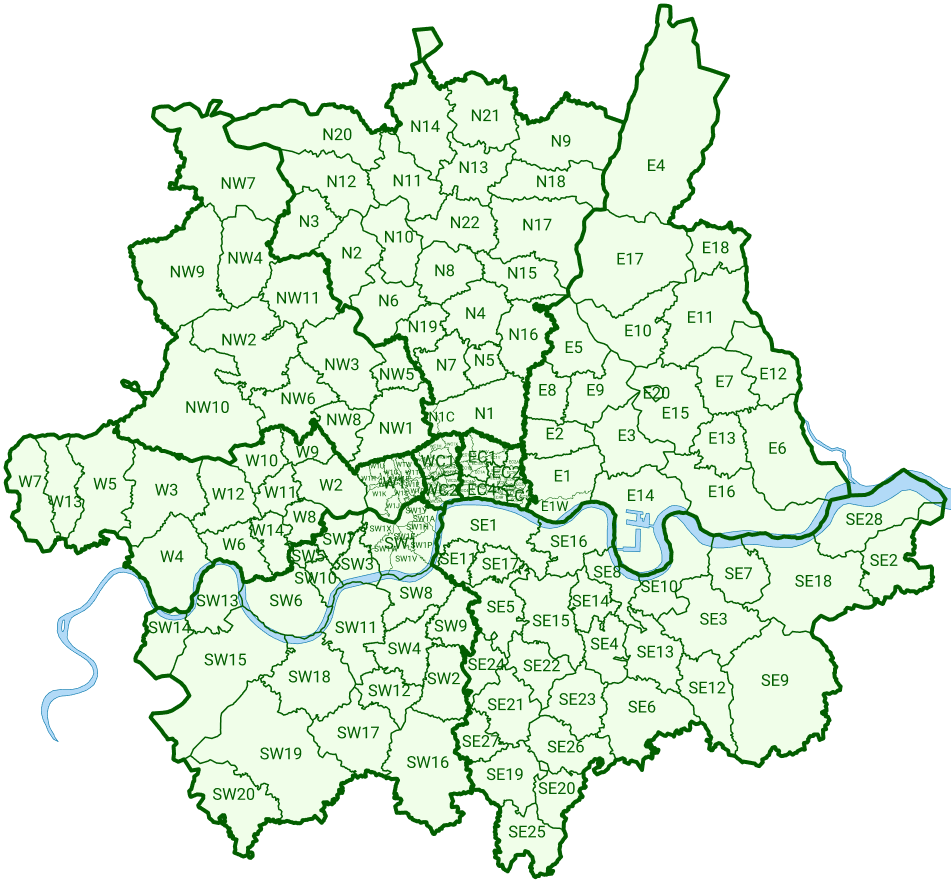
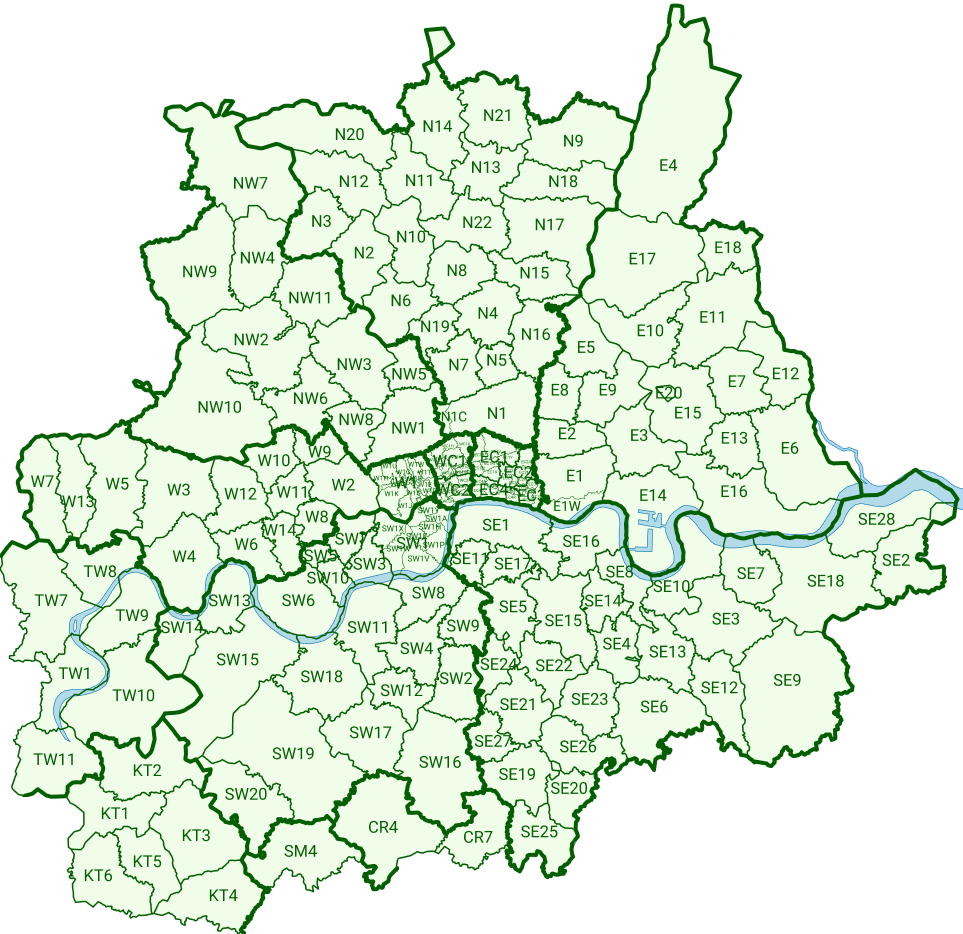
New postcodes added
Also a pic of our actual vans

Changed region(s): [[0.0, 0.0, 1.0, 1.0]]

diff --git a/index.html b/index.html
@@ -415,7 +415,7 @@ The future of delivery          </h1>
 
               <!-- Text -->
               <p class="text-muted mb-6">
-                We deliver across the capital to all London postcodes (E, EC, N, NW, SE, SW, WC, W), with seamless setup
+                We deliver across the capital to all London postcodes (E, EC, N, NW, SE, SW, WC, W) + TW1,7,8,9,10,11 + KT1,2,3,4,5,6 + SM4 + CR7 + CR4, with seamless setup
                 alongside national couriers.
               </p>
 
